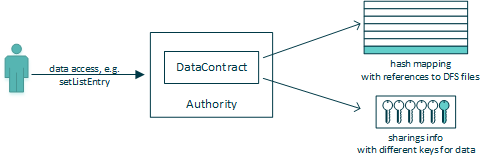
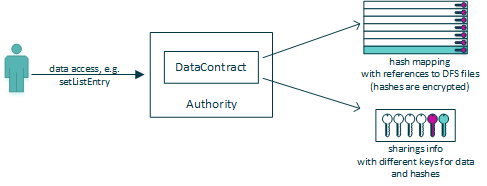
add hash encryption to security; update data contract picture with hash keys

diff --git a/dev/security.md b/dev/security.md
@@ -168,12 +168,18 @@ The "public" section contains data, that is visible without being invited or rel
 
 When decrypted, the ```private``` section takes precedence over the ```public``` section. This can lead to the private section overwriting sections of the ```public``` part. For example a public title may be replace with a "true" title (only visible for members) from the private section.
 
+### Hash Encryption
+When envelopes are stored in the distributed filesystem, they can be retrieved via a hash, that is similar to an address of that data. This hash is then stored in the smart contract and contract participants can get the hash from the contract, retrieve the data from the DFS and decrypt it. To prevent data hoarders from pulling hashes from smart contracts, storing the DFS files for them and brute forcing them later on, hashes are encrypted before storing them in the smart contract as well.
+
 ### Crypto Algorithms
 #### aes-256-cbc
 The default encryption is AES with cypher block chaining and a key length of 256 bit. This is commonly used for encrypting data in the API.
 
 #### aes-blob
-The actual encrytion in this mode utilizes aes as well, but the ```private``` part only holds a reference to the encrypted file or files in the distributed filesystem and the envelope is basically a listing with references to the encrypted files.
+The actual encryption in this mode utilizes aes as well, but the ```private``` part only holds a reference to the encrypted file or files in the distributed filesystem and the envelope is basically a listing with references to the encrypted files.
+
+#### aes-ecb
+This algorithm is used for encrypting file hashes, which are 32 byte values. ECB ensures that encrypted hashes can be saved in the smart contract. Keys for hashes are created per contract and all hases for a contract are encrypted with the same hash.
 
 #### unencrypted
 Like the name suggests, this is not an actual encryption but the envelope is just used as a wrapper for unencrypted data, that follows the same guidelines. This is useful, when the data schema requires an envelope but the data should be public.
